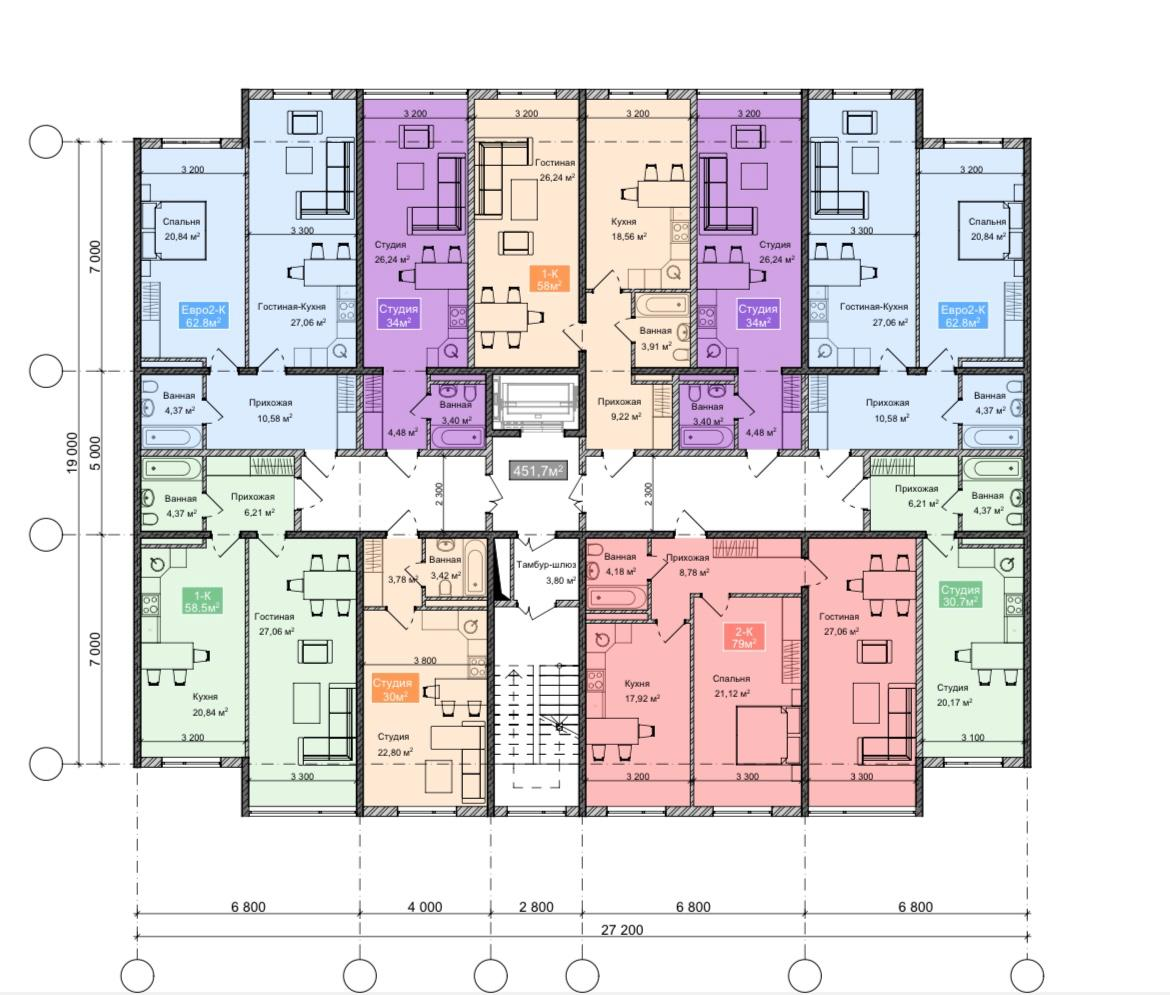
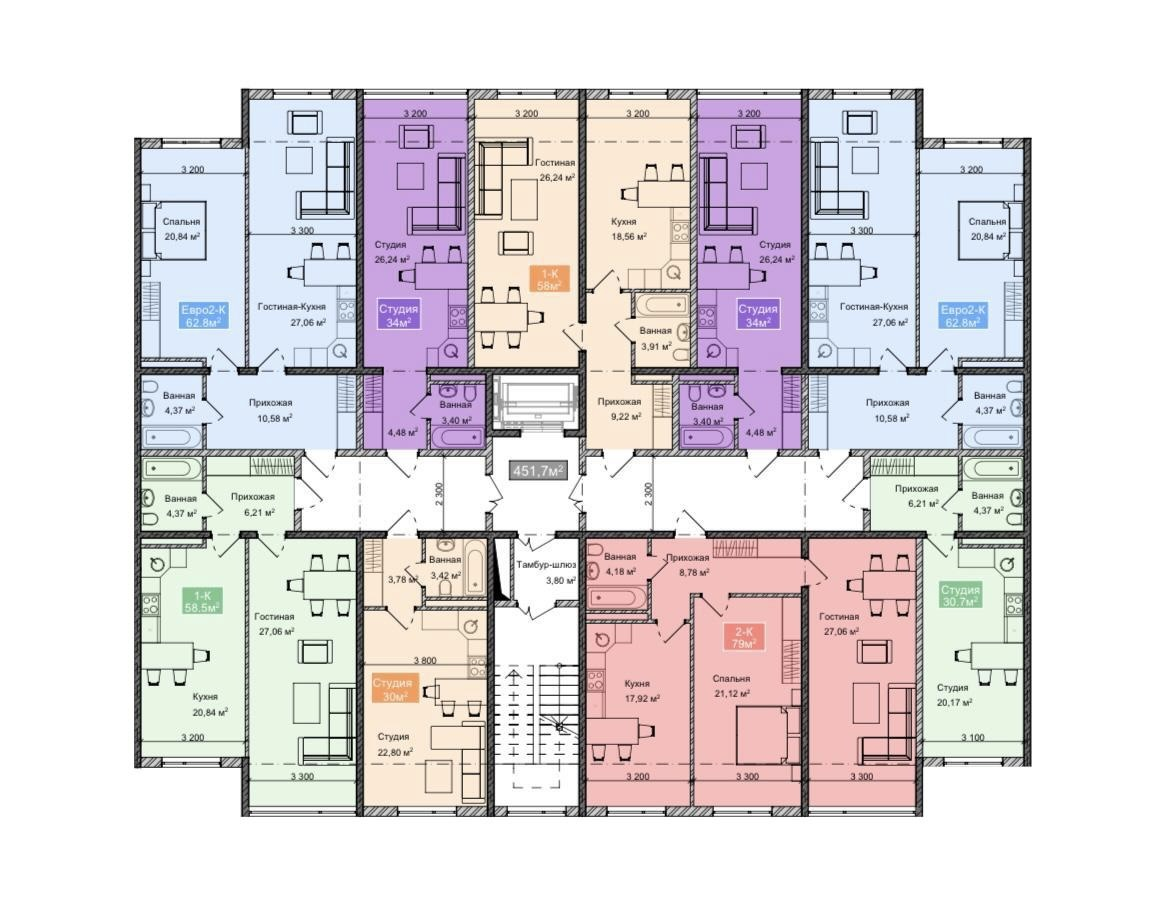
ready picture

diff --git a/src/utils/dataexample.jsx b/src/utils/dataexample.jsx
@@ -5,7 +5,7 @@ function generateData() {
     const data = [
         {
             id: 1,
-            images: ['/images/Primorskiy1.jpg', '/images/Primorskiy2.jpg', '/images/Primorskiy3.jpg', '/images/Primorskiy4.jpg',],
+            images: ['/images/Primorskiy1.jpg', '/images/Primorskiy2.jpg', '/images/Primorskiy3.jpg', '/images/Primorskiy4.jpg', '/images/Plan1Primorskiy.jpeg', '/images/Plan2Primorskiy.jpeg'],
             nameComplex: 'Приморский',
             relinquishment: 'IV кв 2027',
             price: 75000,
